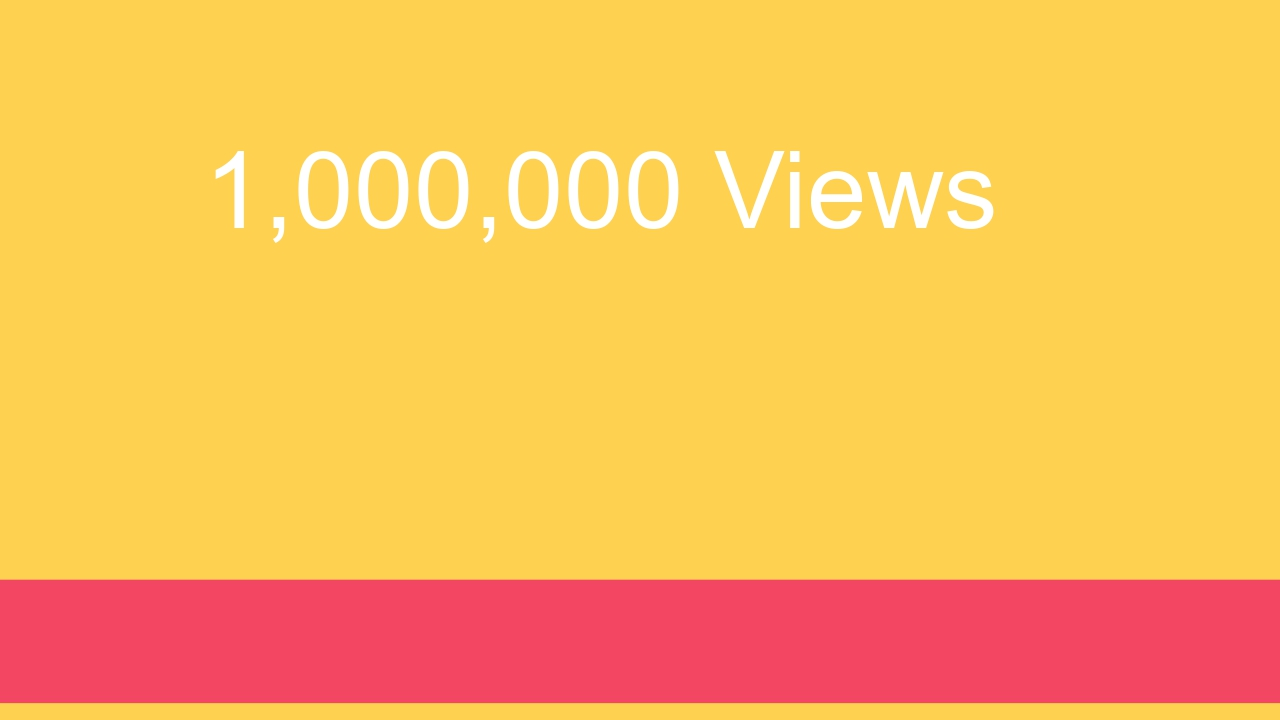
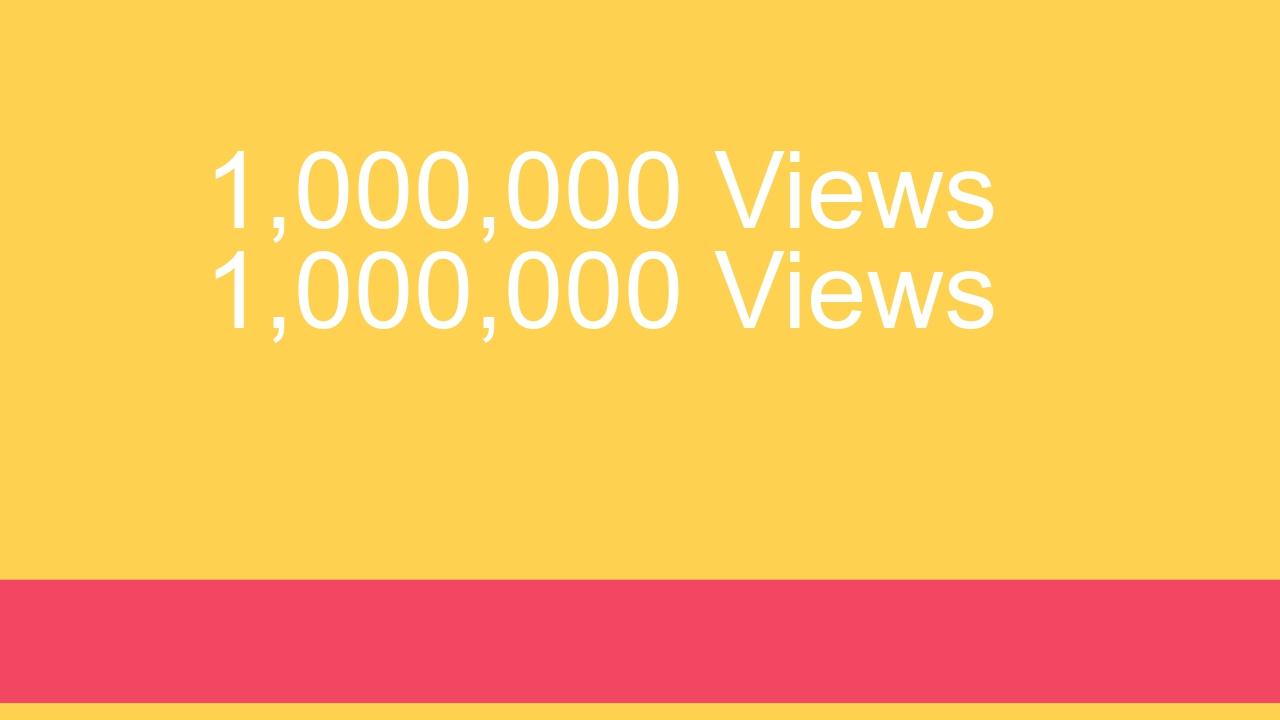
add next line text
add next line text

Changed region(s): [[0.1562, 0.3361, 0.5312, 0.4889], [0.5625, 0.3361, 0.7812, 0.4583]]

diff --git a/main.php b/main.php
@@ -1,19 +1,16 @@
 <?php
-// (A) OPEN IMAGE
+//OPEN IMAGE
 $img = imagecreatefromjpeg('sample.jpg');
-
-// (B) WRITE TEXT
+//WRITE TEXT
 $white = imagecolorallocate($img, 255, 255, 255);
 $txt = "1,000,000 Views";
 $font = "C:\Windows\Fonts\arial.ttf"; 
-
-//  THE TEXT Position
-$centerX = 204;
-$centerY = 228;
-imagettftext($img, 80, 0, $centerX, $centerY, $white, $font, $txt);
-
-// (C) OUTPUT IMAGE
-
+//THE TEXT Position
+$positionX = 204;
+$positionY = 228;
+imagettftext($img, 80, 0, $positionX, $positionY, $white, $font, $txt);
+imagettftext($img, 80, 0, 204, 328, $white, $font, $txt);
+//OUTPUT IMAGE
 imagejpeg($img);
 imagejpeg($img, "test.jpg", 100);
 imagedestroy($img);
